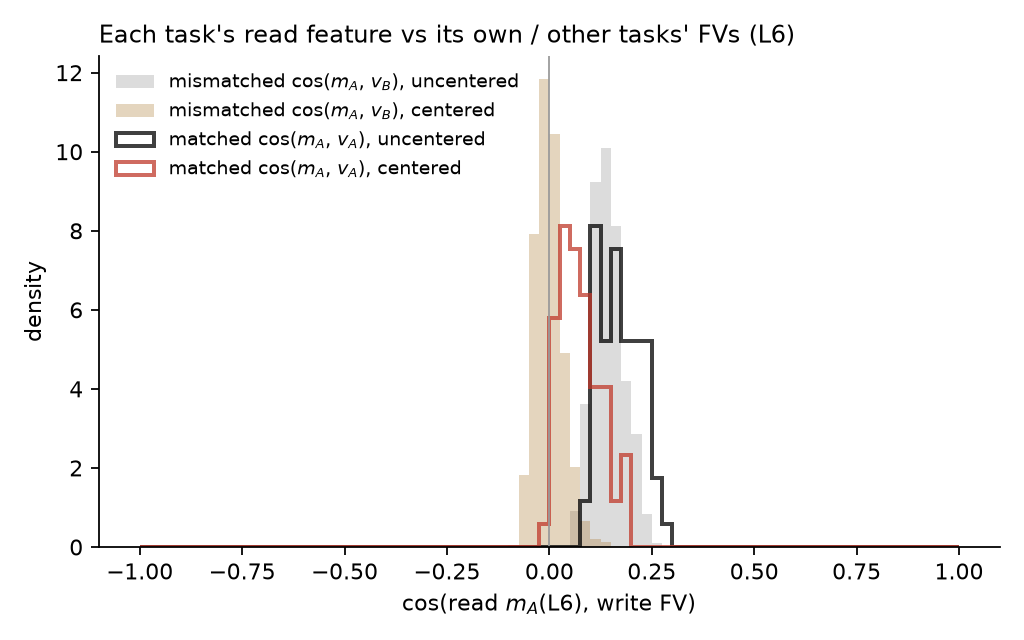
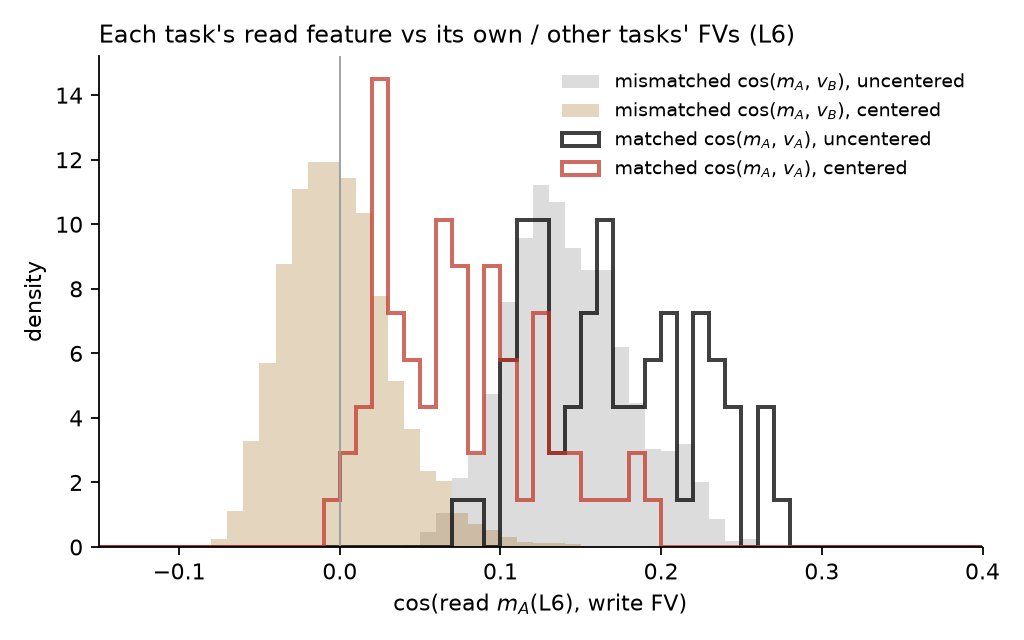
Cross-family cosine histogram: x-range tightened to the data

diff --git a/src/eval_scripts/plot_crossfamily_cos_L6.py b/src/eval_scripts/plot_crossfamily_cos_L6.py
@@ -21,7 +21,7 @@ from src.utils.paths import TASK69_RUN_DIR  # noqa: E402
 
 D = TASK69_RUN_DIR / "understanding_read_write_linear_map"
 z = np.load(D / "rotation_vs_ridge_spectra.npz")
-bins = np.linspace(-1, 1, 81)
+bins = np.linspace(-0.15, 0.4, 56)
 fig, ax = plt.subplots(figsize=(6.4, 4.0), dpi=160)
 fig.patch.set_facecolor("white"); ax.set_facecolor("white")
 for variant, color in (("uncentered", "0.55"), ("centered", "#a8742a")):
@@ -31,6 +31,7 @@ for variant, color in (("uncentered", "k"), ("centered", "#c0392b")):
     ax.hist(z[f"L6_crossfam_matched_{variant}"], bins=bins, density=True, color=color, alpha=0.75,
             histtype="step", lw=1.8, label=f"matched cos($m_A$, $v_A$), {variant}")
 ax.axvline(0, color="0.6", lw=0.8)
+ax.set_xlim(-0.15, 0.4)
 ax.set_xlabel("cos(read $m_A$(L6), write FV)")
 ax.set_ylabel("density")
 ax.set_title("Each task's read feature vs its own / other tasks' FVs (L6)", fontsize=11, loc="left")
